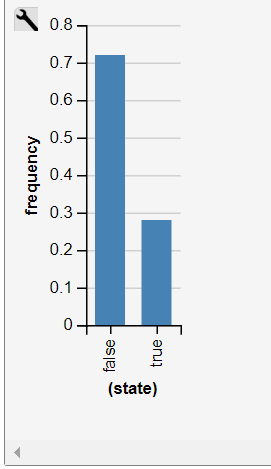
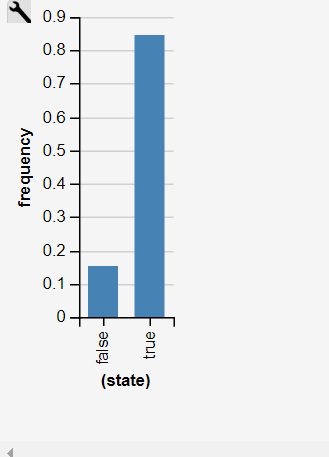
ppv2

Changed region(s): [[0.0, 0.0, 1.0, 1.0]]

diff --git a/EX/prob_programming/pp.py b/EX/prob_programming/pp.py
@@ -1,20 +1,23 @@
-#  var batteries = function() {
-#      var battery1 = flip(0.9);
-#     var battery2 = flip(0.9);
-#     var battery3 = flip(0.9);
-#     var battery4 = flip(0.9);
-#     return [battery1, battery2, battery3, battery4];
-# };
 #
-# var gen = function() {
-#     var pack = batteries();
-#     // Condition: at least one battery is empty
-#     condition(_.some(pack, function(b) { return !b; }));
-#     // Check if exactly three batteries are full
-#     return _.countBy(pack, _.identity).false === 1;
-# };
+
+# var genA = function () {
+#   var battery1 = flip(0.9);
+#   var battery2 = flip(0.9);
+#   var battery3 = flip(0.9);
+#   var battery4 = flip(0.9);
 #
-# viz(Infer({method: "rejection", samples: 10000}, gen));
+#   // Ensure at least one battery is empty
+#   var atLeastOneEmpty = !battery1 || !battery2 || !battery3 || !battery4;
+#   condition(atLeastOneEmpty);
+#
+#   // Count how many batteries are full
+#   var fullBatteries = battery1 + battery2 + battery3 + battery4;
+#
+#   // We're interested in the cases where exactly three batteries are full
+#   return fullBatteries === 3;
+# }
+#
+# viz(Infer({method: "enumerate"}, genA));
 #
 #
 # var gen = function() {

diff --git a/EX/prob_programming/README.md b/EX/prob_programming/README.md
@@ -5,28 +5,32 @@ We employ generative models to estimate probabilities under certain conditions. 
 
 #### Problem 1:
 ````
-var batteries = function() {
-    var battery1 = flip(0.9);
-    var battery2 = flip(0.9);
-    var battery3 = flip(0.9);
-    var battery4 = flip(0.9);
-    return [battery1, battery2, battery3, battery4];
-};
+var genA = function () {
+  var battery1 = flip(0.9);
+  var battery2 = flip(0.9);
+  var battery3 = flip(0.9);
+  var battery4 = flip(0.9);
+  
+  // Ensure at least one battery is empty
+  var atLeastOneEmpty = !battery1 || !battery2 || !battery3 || !battery4;
+  condition(atLeastOneEmpty);
 
-var gen = function() {
-    var pack = batteries();
-    condition(_.some(pack, function(b) { return !b; }));
-    return _.countBy(pack, _.identity).false === 1;
-};
+  // Count how many batteries are full
+  var fullBatteries = battery1 + battery2 + battery3 + battery4;
+  
+  // We're interested in the cases where exactly three batteries are full
+  return fullBatteries === 3;
+}
 
-viz(Infer({method: "rejection", samples: 10000}, gen));
+viz(Infer({method: "enumerate"}, genA));
+
 ````
 
 Result:
 
 ![img.png](img.png)
 
-Probability of exactly three batteries being full: 29.12%
+Probability of exactly three batteries being full: 84.79%
 
 
 
